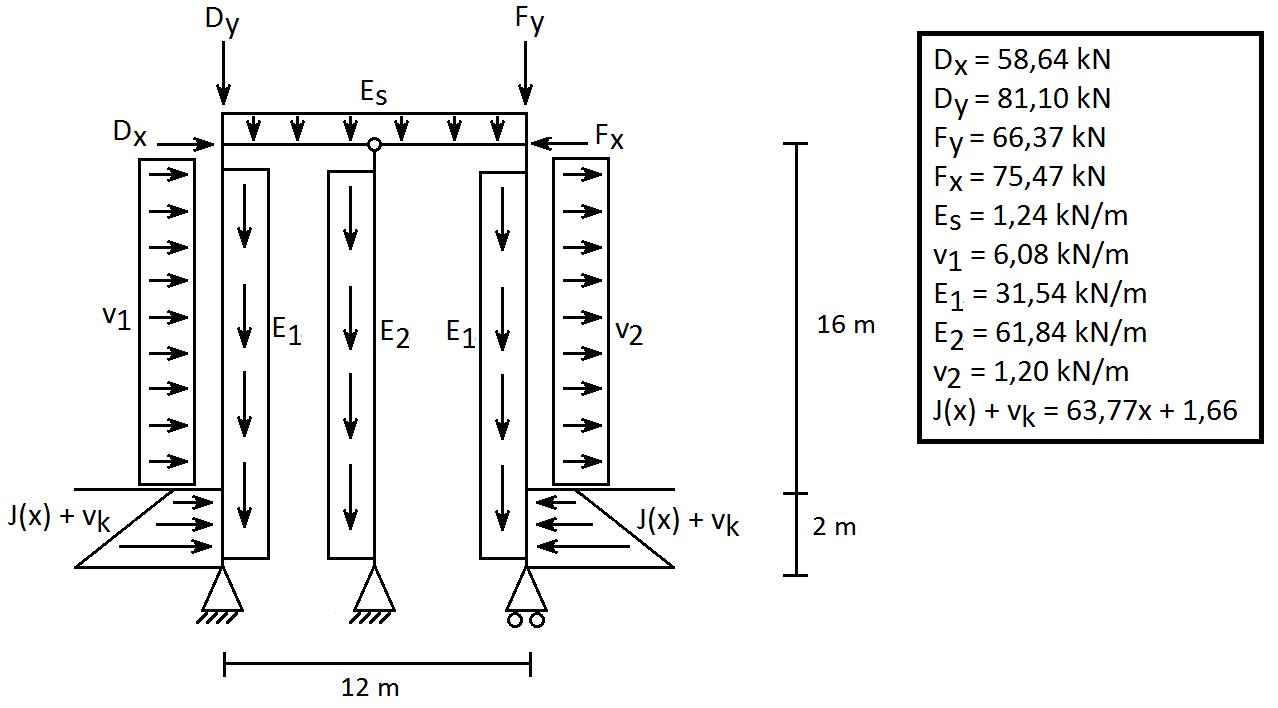
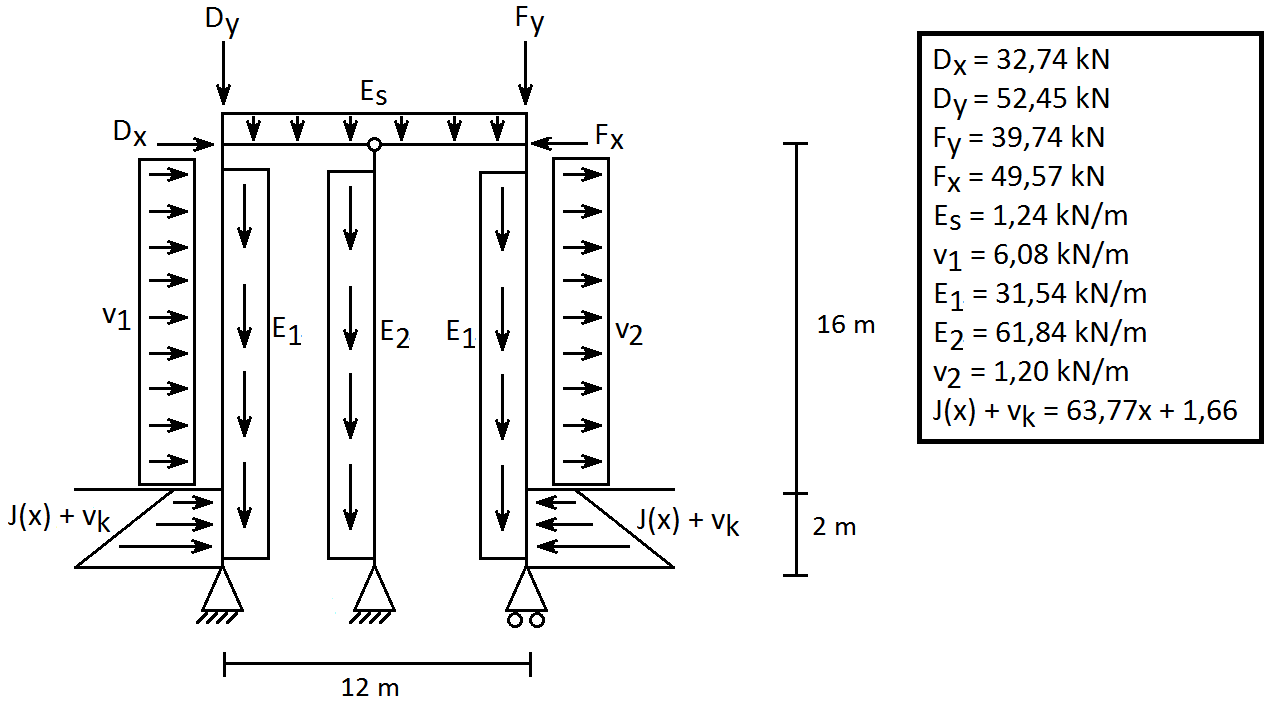
jfpwif

diff --git a/Rapport/Teknisk/staal.tex b/Rapport/Teknisk/staal.tex
@@ -3,7 +3,7 @@
 I dette afsnit undersøges tilbygningens brudgrænsetilstand. Først beregnes reaktionerne ud fra Figur \ref{fig:alle} og dernæst laves snitkræfter. Slutteligt undersøges spændingstilstanden, og udfra ståltypens flydespændingen kan det vurderes, om konstruktionen kan holde eller vil bryde sammen.   
 
 \section{Reaktioner}
-Når der beregnes reaktioner for de tre understøtninger, er der behov for at opdele konstruktionen. Systemet opdeles i det midterste charnierled i henholdvis en venstre- og højre del, som ses på Figur \ref{fig:opdelingv} og \ref{fig:opdelingh}. I skæringen mellem de to dele, vil der være snitkræfter, men ikke momentkræfter, da momentet i charnierledet er nul. Dermed optræder der kun normalkraften, N, og forskydningskraften, V.
+Reaktionerne i de tre understøtninger beregnes ved at opdele konstruktionen. Systemet opdeles i det midterste charnierled i henholdvis en venstre- og højre del, som ses på Figur \ref{fig:opdelingv} og \ref{fig:opdelingh}. I skæringen mellem de to dele, vil der være snitkræfter, men ikke momentkræfter, da momentet i charnierledet er nul. Dermed optræder der kun normalkraften, N, og forskydningskraften, V.
 
 \begin{figure}[H]
 	\centering
@@ -26,57 +26,57 @@ Først bestemmes den vandrette reaktion i charnier ledet, $S_v$ gennem vandret l
 \begin{center}
 	$\rightarrow+:0 = F_x + E_x - J(2m) - V_k \cdot 2m - V_2 \cdot 16m$
 	\newline
-	$E_x = -1309,\!49 N$
+	$E_x = -1,\!45 kN$
 \end{center}
 
-Nu bestemmes $C_y$ gennem moment ligevægt om punkt E: 
+$C_y$ bestemmes gennem moment ligevægt om punkt E: 
 \begin{center}
 	$\AR{}:0 = -F_y \cdot 6m - E_1 \cdot 18m \cdot 6m + C_y \cdot 6m - J(2m) \cdot 17,\!33m - V_k \cdot 2m \cdot 17m - E_s \cdot 6m \cdot 3m - V_2 \cdot 16m \cdot 8m$
 	\newline
-	$C_y = 7,\!80 \cdot 10^5 N$
+	$C_y = 779,\!83 kN$
 \end{center}
 
-Nu kan den lodrette reaktion i charnier ledet, $S_l$ bestemmes gennem lodret ligevægt: 
+Til sidst bestemmes den lodrette reaktion i charnier ledet, $S_l$ gennem lodret ligevægt: 
 \begin{center}
 	$\uparrow+: 0 = F_y - E_1 \cdot 18m - E_s \cdot 6m + C_y + S_l$
 	\newline	
-	$E_y = -2,\!44 \cdot 10^5N$
+	$E_y = -164,\!89 kN$
 \end{center}
 
-Reaktionerne for det højre system er hermed bestemt, og disse påsættes som belastninger i punkt E i det venstre system, og reaktionerne bestemmes for dette. Da reaktionerne i begge systemer peger i negativ retning, ændres fortegnet og dermed retning, så de virker som vist på Figur \ref{fig:opdelingv}.
-
+Reaktionerne $E_y$ og $E_x$ påsættes som belastninger i punkt E på det venstre system. Da reaktionerne i begge systemer peger i negativ retning, ændres fortegnet og dermed retning, så de virker som vist på Figur \ref{fig:opdelingv}.
+\newline \indent{     } Reaktionerne i det venstre system kan hermed bestemmes.
+\newline
+\newline
 Først tages der moment om A, for at beregne $B_y$  
 \begin{center}
 	$A\hookrightarrow+: 0 = B_y \cdot 6m + E_y \cdot 6m + E_x \cdot 18m - E_2 \cdot 18m \cdot 6m - E_s \cdot 6m \cdot 3m + D_x \cdot 18m - V_1 \cdot 16m \cdot (8m + 2m) - J(2m) \cdot (2m \cdot \frac{1}{3}) - V_k \cdot 2m \cdot 1m$
 	\newline 
-	$B_y = 9,\!49 \cdot 10^5N$
+	$B_y = 127,\!92 kN$
 \end{center}
 
 Nu laves lodret ligevægt for at bestemme $A_y$
 \begin{center}
 	$\uparrow+: 0 = A_y + B_y - E_y - E_2 \cdot 18m - E_1 \cdot 18m - F_y - E_s \cdot 6 m$
 	\newline
-	$A_y = 5,\!35 \cdot 10^5N$
+	$A_y = 547,\!96 kN$
 \end{center}
 
-For at gøre det muligt at isolere en af de vandrette reaktioner laves der et snint i charnieret, og derefter tages der moment omkring charnieret i punkt E, for at bestemme $B_x$.
+For at gøre det muligt at isolere en af de vandrette reaktioner laves der et snit i charnieret, og derefter tages der moment omkring charnieret i punkt E, for at bestemme $B_x$:
 \begin{center}
 	$\hookrightarrow+: 0 = B_x \cdot 18m$
 	\newline
-	$B_x = 0N$
+	$B_x = 0 kN$
 \end{center}
 
 Slutteligt laves vandret ligevægt for at bestemme $A_x$
 \begin{center}
 	$\rightarrow+: 0 = A_x - E_x + B_x + J(2m) + V_k \cdot 2m + V_1 \cdot 16 m - D_x$
 	\newline
-	$A_x = -1,\!33 \cdot 10^5N$
+	$A_x = -133,\!31 kN$
 \end{center} 
 
-Alle reaktionerne er hermed bestemt, og der kan laves snitkræfter.
-
 \section{Snitkræfter}
-Snitkræfterne for Strøybergs Palæs stålramme kan nu beregnes gennem de kendte reaktioner. Her laves der snitkræfter for to tilfælde; brudgrænse- og anvendelsesgrænsetilstand. I beregningen af brudgrænsetilstanden skal der ses på de mest ekstreme lasttilfælde (kritiske moment, normal og forskydning?) for at se, om stålkonstruktionen kan holde til disse belastninger. For anvendelsesgrænsetilstanden skal der undersøges, hvor store deformationer stålrammerne får ved lasterne, og om disse overskrider de maksimalt tilladte udbøjninger jævnført Eurocode 1993, afsnit 7.2. Her kan der dog gennem Eurocode 1993, afsnit 7.2 tages nogle forbehold, som gør at konstruktionen ikke er nær så belastet, som ved brudgrænsetilstanden, da der kun skal fokuseres på én variabel last og ikke alle laster, som optræder i konstruktionen; der beregnes derfor kun ud fra vindlasten. Det betyder også, at der skal udregnes nye reaktioner for systemet, hvor vindlasten optræder som eneste variable last.
+Snitkræfterne for tilbygningen til Strøybergs Palæ kan nu beregnes gennem de kendte reaktioner. Her laves der snitkræfter for to tilfælde; brudgrænse- og anvendelsesgrænsetilstand. I beregningen af brudgrænsetilstanden skal der ses på de mest ekstreme lasttilfælde (kritiske moment, normal og forskydning?) for at se, om stålkonstruktionen kan holde til disse belastninger. For anvendelsesgrænsetilstanden skal der undersøges, hvor store deformationer stålrammerne får ved lasterne, og om disse overskrider de maksimalt tilladte udbøjninger jævnført Eurocode 1993, afsnit 7.2. Her kan der dog gennem Eurocode 1993, afsnit 7.2 tages nogle forbehold, som gør at konstruktionen ikke er nær så belastet, som ved brudgrænsetilstanden, da der kun skal fokuseres på én variabel last og ikke alle laster, som optræder i konstruktionen; der beregnes derfor kun ud fra vindlasten. Det betyder også, at der skal udregnes nye reaktioner for systemet, hvor vindlasten optræder som eneste variable last.
 \newline
 \newline
 For begge tilstande fokuseres der kun på hovedkonstruktionen og ikke taget, og der tages derfor udgangspunkt i rammerne for henholdsvis brudgrænse- og anvendelsesgrænsetilstand, som illustreret på figur NYE BILLEDER – FIGUR 1 og 2, da disse er grundkonstruktionen, hvor belastning fra taget optræder i punkterne D og F.
@@ -92,7 +92,7 @@ For begge tilstande fokuseres der kun på hovedkonstruktionen og ikke taget, og 
 For at finde ud af om konstruktionen kan holde, undersøges spændingstilstanden. Her skal det gælde:
 
 \begin{center}
-	$\sqrt{\sigma^2 + 3\tau^2} \leq f_y$ 
+	$\sqrt{\sigma^2 + 3\tau^2} \le f_y$ 
 \end{center}
 
 \begin{itemize}
@@ -150,7 +150,13 @@ Nedenfor vises et beregningseksempel for et kritisk punkt. Resultaterne for alle
 VIS BEREGNINGSEKSEMPEL FOR ET KRITISK PUNKT
 \newline
 \newline
-INDSÆT TABEL MED RESULTATER (SE MAPLE-DOKUMENT) 
+INDSÆT TABEL MED RESULTATER (SE MAPLE) 
 \newline
 \newline
-SKRIV KONKLUSION (KAN DET HOLDE)? Hvad kan man gøre hvis det ikke kan holde - eller er det "overdimensioneret"?
+Det ses i Tabel XXXX at spændingen i flere tilfælde overskrider den regningsmsæssige flydespænding. Derfor vil stålrammen opleve brud, og i værste tilfælde knække sammen, som det kendes fra ståls arbejdskurve.
+\newline 
+\newline
+For at konstruktionen ikke skal bryde sammen, skal der foretages en række ændringer.
+\newline \indent{     }  Der er indsat tre stålrammer i tilbygningen. Ved at indsætte en eller to stålrammer mere, vil lasterne foredeles ud over disse, og dermed vil hver enkelt stålramme i mindre grad belastes. Dermed vil spændingerne i sidste ende mindskes. 
+\newline \indent{     }  Der er valgt en ståltype S235, som kan ændres til en højere styrkeklasse, for eksempel S275 eller S355. Ved at vælge en højere styrkeklasse, øges flydespændingen dermed. En større flydespænding betyder, at stålen kan klare en større spænding. Ved for eksempel kan ændre ståltypen til S355 ændres flydespændingen til $f_y = \frac{345 MPa}{1,\!1} = 313,\!64 MPa$. 
+\newline \indent{     }  Til sidst kan der vælges en anden stålprofil. HVAD ÆNDRE DET?

diff --git a/Rapport/Teknisk/indled.tex b/Rapport/Teknisk/indled.tex
@@ -168,8 +168,15 @@ Det antages at bygningens etager kun består af gulv, dvs. ingen skillevægge, t
 $A_{etage} = 12,\!50 m\cdot 12,\!00 m = 150,\!00 m^2$
 \end{center}
 
-Fire ud af tilbygningens fem etager består af bærende gulve, da kælderetagen ligger på fundamentet og derfor ikke regnes som et bærende gulv. 
-\newline \indent{     }  Et bærende gulv antages at bestå af et armeret betondæk nederst, der oftest er mellem 80 mm og 200 mm tyk. Det bestemmes, at den er 120 mm tyk, hvorpå der ligger bjælker. Bjælkernes opgave er at lede og overføre lasterne ud i understøtning. Derefter vil der ligge et undergulv, mellemgulv og til sidst selve gulvbelægningen. Isoleringen lægges mellem betondækket og undergulvet \citep{Gulvopbygning}. Densiteten og tykkelsen af gulvlagene kan ses i Tabel \ref{tab:densi}.
+Fire ud af tilbygningens fem etager består af bærende gulve. Kælderetagen ligger på fundamentet, og bliver dermed ikke båret af rammen. Derfor medregnes kælderetagens gulv ikke. 
+\newline \indent{     }  Opbygningen af det bærende gulv er illustreret på Figur \ref{fig:gulv}. Det bærende gulv består af et armeret betondæk nederst, der oftest er mellem 80 mm og 200 mm tyk. Det bestemmes, at den er 120 mm tyk, hvorpå der ligger bjælker. Bjælkernes opgave er at lede og overføre lasterne ud i understøtning. Derefter vil der ligge et undergulv, mellemgulv og til sidst selve gulvbelægningen. Isoleringen lægges mellem betondækket og undergulvet \citep{Gulvopbygning}. Densiteten og tykkelsen af gulvlagene kan ses i Tabel \ref{tab:densi}.
+
+\begin{figure}[H]
+	\centering
+	\includegraphics[width=0.5\textwidth]{billeder/gulv.png}
+	\caption{Opbygning af bærende gulv}
+	\label{fig:gulv}
+\end{figure}
 
 \begin{table}
 	\begin{center}
@@ -360,7 +367,6 @@ Den jordlast der virker på det statiske system er illustreret på Figur \ref{fi
 	\caption{Jordlast på det statiske system angivet i $\frac{kN}{m}$}
 	\label{fig:jordlast}
 \end{figure}
-
 
 \subsection{Variable laster}
 Af variable laster optræder snelast, vindlast og nyttelast på bygningen. Disse udregnes efter Dansk Standard Eurocode 1991.
@@ -745,7 +751,7 @@ Ved et rigtigt byggeprojekt skal der opstilles lasttilfælde for alle tænkelige
 
 Nedenfor gennemgås to beregningseksempeler for den regningsmæssige last, med udgangspunkt i henholdsvis område 1 og 6. 
 
-I område 1 område optræder der vindlast, snelast og egenlast, og beregnes ved følgende:
+I område 1 optræder der vindlast, snelast og egenlast, og beregnes ved følgende:
 
 \begin{center}
 	$E_d = 1,\!0 \cdot 1,\!1 \cdot 8,\!63 \frac{kN}{m} + 1,\!5 \cdot 1,\!1 \cdot 3,\!20 \frac{kN}{m} + 1,\!5 \cdot 0 \cdot 1,\!1 \cdot 5,\!0 \frac{kN}{m}$
@@ -783,7 +789,7 @@ De laster der virker i lodret retning, altså y-retningen, er nyttelast, egenlas
 	$y-retningen = 1,\!0 \cdot 1,\!1 \cdot 21,\!64 \frac{kN}{m} + 1,\!5 \cdot 0,\!5 \cdot 1,\!1 \cdot 9,\!37 \frac{kN}{m} = 31,\!54 \frac{kN}{m}$ 
 \end{center}
 
-Ovenstående beregninger gentages hvor hvert område på konstruktionen, og der er derfor lavet i alt 11 lastkombinationer i dette projekt. De laster der virker på konstruktionen er angivet på Figur \ref{fig:laster}. 
+Ovenstående beregninger gentages hvor hvert område på konstruktionen, og der er derfor lavet i alt 11 lastkombinationer i dette projekt. De endelige laster der virker på konstruktionen er angivet på Figur \ref{fig:laster}. 
 
 \begin{figure}[htbp]
 	\centering
@@ -801,7 +807,7 @@ Taget i bjælkekonstruktionen er forbundet til den resterende del af konstruktio
 	\label{fig:tagmedreaktioner}
 \end{figure}
 
-Punktlasterne bestemmes gennem de tre ligevægtsligninger, ved at beregne reaktionerne i de to punkter, D og F, som begge er fast simple understøttet. Før reaktionerne bestemmes, skal vindlasten, som virker vinkelret på tagoverfladen, deles op i x- og y-komposanter ved at mulitplicere med taghældningen på $26,\!6^\circ$. Egenlasten virker vinkelret på jordoverfladen, og derfor kun i y-retningen. Når vindlasten er opdelt i x- og y-komposanter, samles lasterne for henholdsvis x- og y-retningen. Fritlegemediagrammet samt de laster på taget, som skal bruges til at beregne reaktioner, er illustreret på Figur \ref{fig:fld}. 
+Punktlasterne bestemmes gennem de tre ligevægtsligninger, ved at beregne reaktionerne i de to punkter, D og F, som begge er fast simple understøttet. Før reaktionerne bestemmes, skal vindlasten, som virker vinkelret på tagoverfladen, deles op i x- og y-komposanter ved at mulitplicere med henholdsvis sinis og cosinus til taghældningen på $26,\!6^\circ$. Egenlasten virker vinkelret på jordoverfladen, og derfor kun i y-retningen. Når vindlasten er opdelt i x- og y-komposanter, samles lasterne for henholdsvis x- og y-retningen. Fritlegemediagrammet samt de laster på taget, som skal bruges til at beregne reaktioner, er illustreret på Figur \ref{fig:fld}. 
 
 \begin{figure}[htbp]
 	\centering
@@ -812,27 +818,27 @@ Punktlasterne bestemmes gennem de tre ligevægtsligninger, ved at beregne reakti
 
 Reaktionerne kan dermed beregnes:
 \begin{center}
-	Moment om D: $-F_{1y} \cdot 2,\!795 m \cdot \frac{2,\!5 m}{2} - F_{2y} \cdot 3,\!913 m \cdot (2,\!5 m + \frac{3,\!5 m}{2}) - F_{1x} \cdot 2,\!795 m \cdot (\frac{1,\!25 m}{2}) - F_{2x} \frac{kN}{m} \cdot 3,\!913 m \cdot (1,\!25 m + \frac{1,\!75 m}{2}) - F_{3y} \cdot 2,\!795 m \cdot (6 m + \frac{2,\!5 m}{2}) - F_{4y} \frac{kN}{m} \cdot 3,\!913 m \cdot (8,\!5 m + \frac{3,\!5 m}{2}) - F_{3x} \cdot 2,\!795 m \cdot (1,\!25 m + \frac{1,\!75 m}{2}) - F_{4x} \cdot 3,\!913 m \cdot (\frac{1,\!25 m}{2}) + 12 m \cdot F_y = 0$ 
+	Moment om D: $-F_{1y} \cdot 2,\!795 m \cdot \frac{2,\!5 m}{2} - F_{2y} \cdot 3,\!913 m \cdot (2,\!5 m + \frac{3,\!5 m}{2}) - F_{1x} \cdot 2,\!795 m \cdot (\frac{1,\!25 m}{2}) - F_{2x} \frac{kN}{m} \cdot 3,\!913 m \cdot (1,\!25 m + \frac{1,\!75 m}{2}) - F_{3y} \cdot 2,\!795 m \cdot (6 m + \frac{2,\!5 m}{2}) - F_{4y} \frac{kN}{m} \cdot 3,\!913 m \cdot (8,\!5 m + \frac{3,\!5 m}{2}) - F_{3x} \cdot 2,\!795 m \cdot (1,\!75 m + \frac{1,\!25 m}{2}) - F_{4x} \cdot 3,\!913 m \cdot (\frac{1,\!75 m}{2}) + 12 m \cdot F_y = 0$ 
 	\newline 
-	$F_y = 39,\!67 kN$ 
+	$F_y = 39,\!74 kN$ 
 \end{center}
 
 \begin{center}
 	Lodret ligevægt: $-F_{1y} \frac{kN}{m} \cdot 2,\!795 m - F_{2y} \frac{kN}{m} \cdot 3,\!913 m - F_{3y} \frac{kN}{m} \cdot 2,\!795 m -  F_{4y} \cdot 3,\!913 m + D_y + F_y = 0$ 
 	\newline
-	$D_y = 52,\!53 kN$
+	$D_y = 52,\!45 kN$
 \end{center}
 
 \begin{center}
 	Moment om charnier led (højre del): $- F_{3y} \cdot 2,\!795 m \cdot (\frac{2,\!5 m}{2}) - F_{4y} \cdot 3,\!913 m \cdot (2,\!5 m + \frac{3,\!5 m}{2}) - F_{3x} \cdot 2,\!795 m \cdot (\frac{1,\!75 m}{2}) - F_{4x} \cdot 3,\!913 m \cdot (1,\!75 m + \frac{1,\!25 m}{2}) + F_y \cdot 6 m - F_x \cdot 3 m = 0$ 
 	\newline
-	$F_x = 49,\!43 kN$
+	$F_x = 49,\!57 kN$
 \end{center}
 
 \begin{center}
 	Vandret ligevægt: $F_{1x} \cdot 2,\!795 m + F_{2x} \cdot 3,\!913 m - F_{3x} \cdot 2,\!795 m - F_{4x} \cdot 3,\!913 m - F_x + D_x = 0$
 	\newline
-	$D_x = 32,\!60 kN$
+	$D_x = 32,\!74 kN$
 \end{center}
 
 Disse reaktioner virker som punktlast på taget, og det endelige statiske system med de laster der skal bruges til at finde reaktioner for det statiske system, er illustreret på Figur \ref{fig:alle}. 
@@ -840,6 +846,6 @@ Disse reaktioner virker som punktlast på taget, og det endelige statiske system
 \begin{figure}[htbp]
 	\centering
 	\includegraphics[width=0.8\textwidth]{billeder/endeligesystemmedlaster.png}
-	\caption{Statisk system med punktlaster og linjelaster. Linjelasterne er angivet i $\frac{kN}{m}$}
+	\caption{Statisk system med punktlaster og linjelaster}
 	\label{fig:alle}
 \end{figure}
